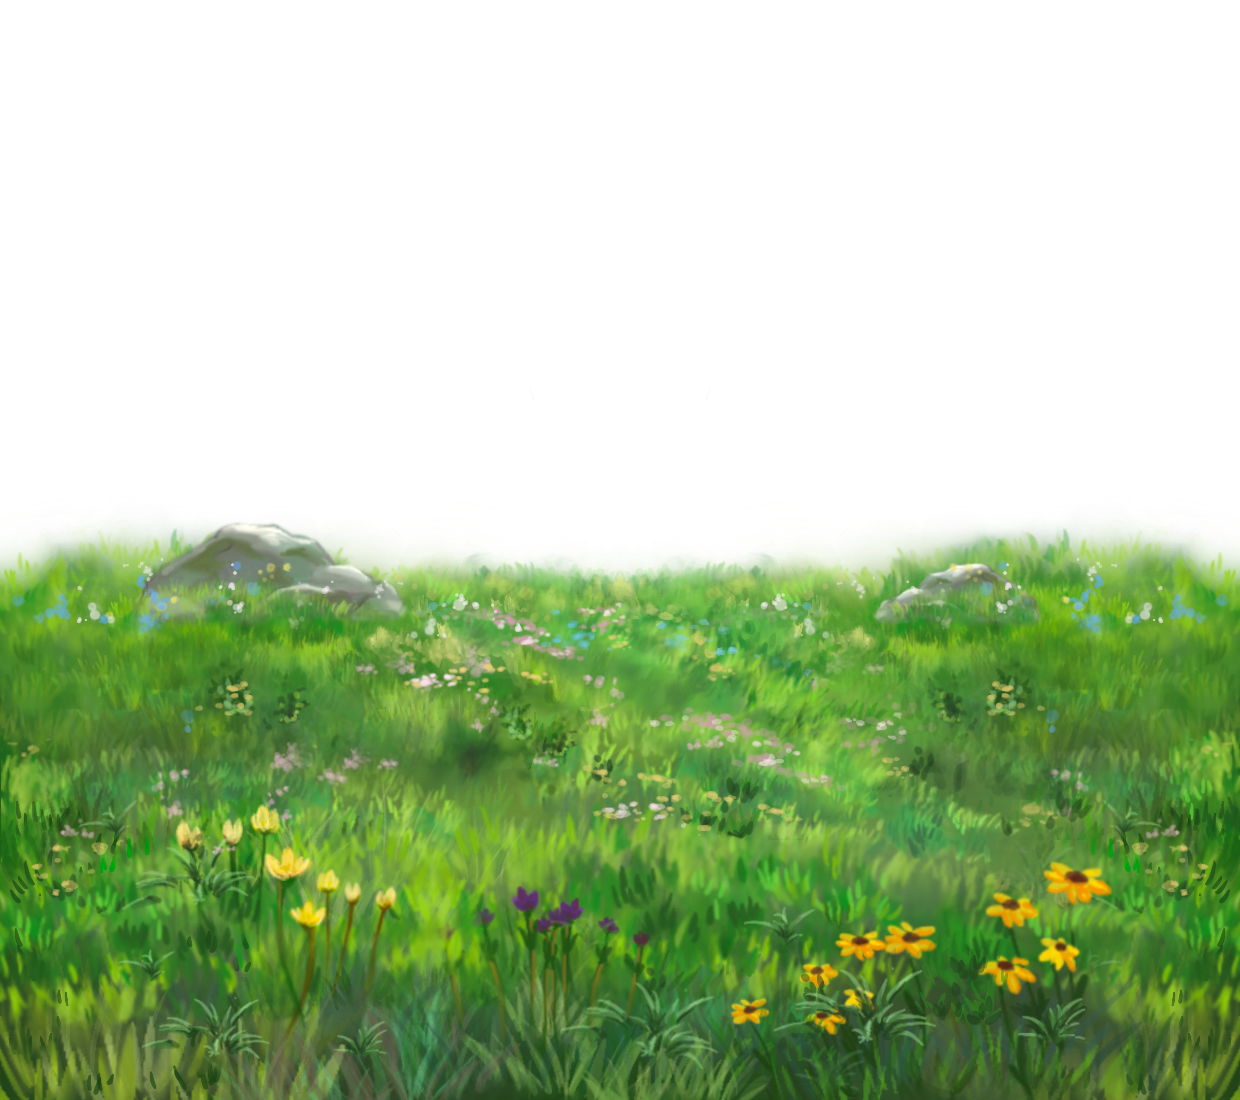
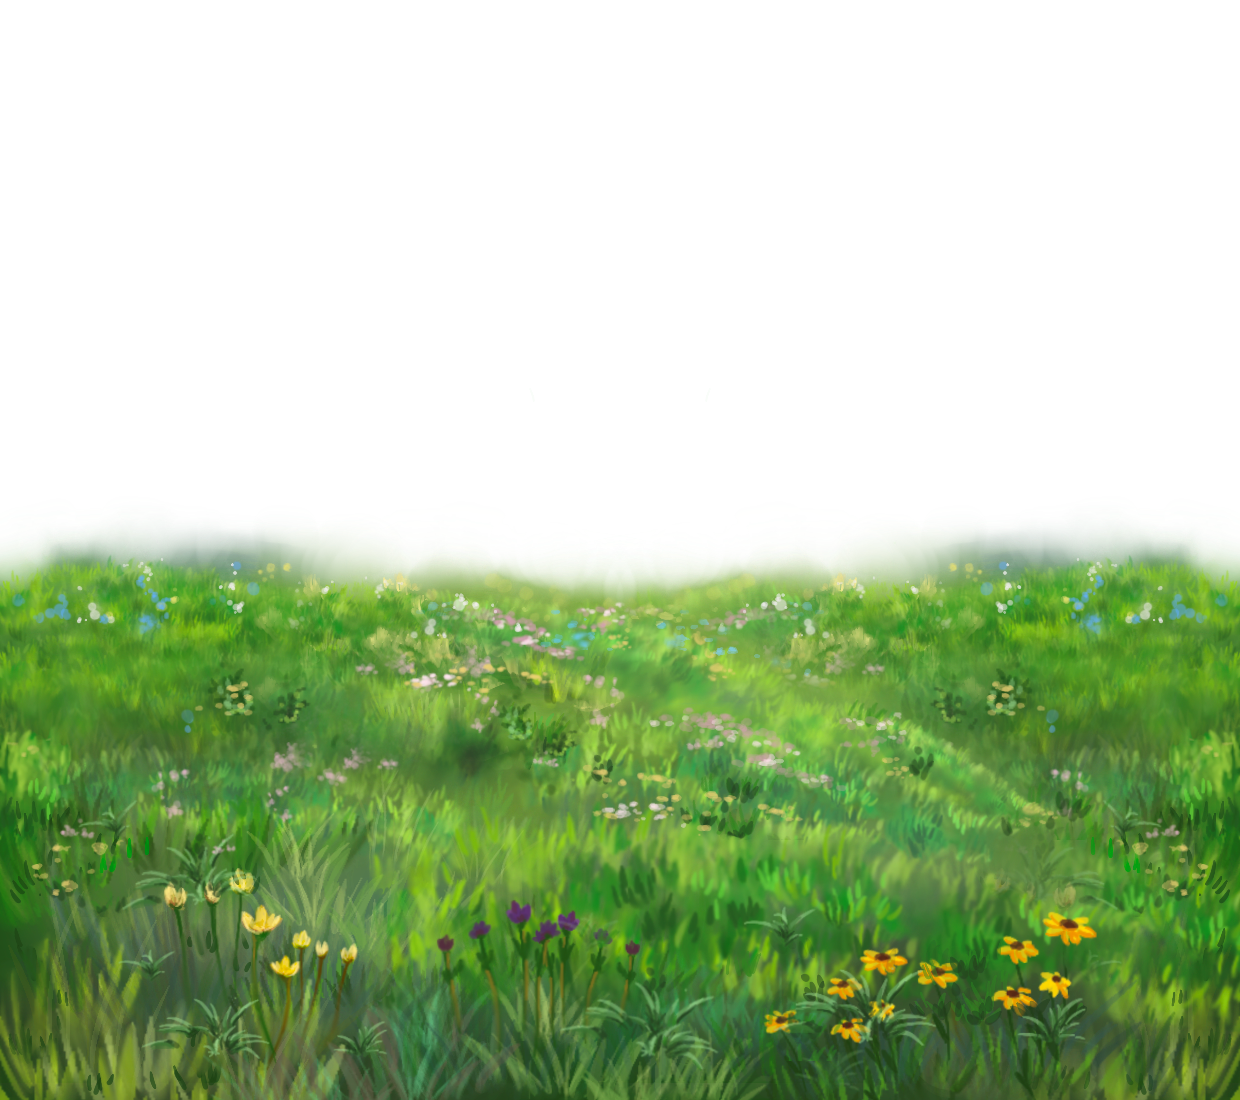
new grass bg and fg images

diff --git a/Scene1.js b/Scene1.js
@@ -25,7 +25,7 @@ class Scene1 extends Phaser.Scene {
         loadPotionAssets(this);
         loadAttackAssets(this);
 
-        this.load.image('grassTile', 'https://raw.githubusercontent.com/sukichn/sukichn.github.io/refs/heads/main/Resources/css/Images/grass-tile.png');
+        this.load.image('grassTile', 'https://raw.githubusercontent.com/sukichn/sukichn.github.io/refs/heads/main/Resources/css/Images/grass.png');
         this.load.image('grassPlatform', 'https://raw.githubusercontent.com/sukichn/sukichn.github.io/refs/heads/main/Resources/css/Images/transparent-platform.png');
     }
 
@@ -83,17 +83,17 @@ class Scene1 extends Phaser.Scene {
         // Create grass foreground
         gameState.grassTile = this.physics.add.staticGroup();
         const grassTilePositions = [
-            /*{ x: -1370, y: 920 },
-            { x: -140, y: 920 },
-            { x: 1100, y: 920 },*/
+            { x: 0, y: 750 },
+            { x: -140, y: 750 },
+            { x: 1100, y: 750 },
         ];
         grassTilePositions.forEach(grass => {
-            gameState.grassTile.create(grass.x, grass.y, 'grassTile');
+            gameState.grassTile.create(grass.x, grass.y, 'grassTile').setDepth(16);
         });
         
 
         // Ensure sunflower is placed correctly
-        gameState.sunflower.setPosition(-700, 0);
+        gameState.sunflower.setPosition(-550, -150);
 
         // Create platform assets
         gameState.platforms = this.physics.add.staticGroup();
@@ -112,7 +112,9 @@ class Scene1 extends Phaser.Scene {
         // Create grass platform
         gameState.grassPlatform = this.physics.add.staticGroup();
         const grassPositions = [
-            { x: 200, y: 600 },  // Platform 1 starting
+            { x: 200, y: 790 },  // Platform 1 starting
+            { x: 800, y: 790 },
+            { x: 1400, y: 790 },  
             
         ];
         grassPositions.forEach(plat => {
@@ -121,7 +123,7 @@ class Scene1 extends Phaser.Scene {
         console.log('Grass Platforms created.');
 
         // Create player assets
-        gameState.player = this.physics.add.sprite(40, 500, 'codey').setScale(.7);
+        gameState.player = this.physics.add.sprite(40, 500, 'codey').setScale(.7).setDepth(14);
         gameState.player.setCollideWorldBounds(true);  // Enable collision with world bounds
         this.physics.add.collider(gameState.player, gameState.platforms);
         console.log('Player created.');
@@ -432,9 +434,9 @@ class Scene1 extends Phaser.Scene {
 // Define the setupCamera function outside the class
 function setupCameraForScene1(scene, gameState) {
     // Set the camera to follow the player on the x-axis only
-    scene.cameras.main.startFollow(gameState.player, true, 0.2, 0.2);
+    scene.cameras.main.startFollow(gameState.player, true, 1, 0);
 
     // Optionally, you can adjust the follow offset if needed
-    scene.cameras.main.setFollowOffset(0, 50);
+    scene.cameras.main.setFollowOffset(0, 300);
 
 }

diff --git a/backgroundAssets.js b/backgroundAssets.js
@@ -16,10 +16,11 @@ const gameAlert = document.getElementById('game-alert');
             .setOrigin(0, 0)
             .setScrollFactor(0)
             .setScale(1);
-        gameState.background = scene.add.tileSprite(0, -20, scene.cameras.main.width, scene.cameras.main.height, 'bg')
+        gameState.background = scene.add.tileSprite(0, 20, scene.cameras.main.width, scene.cameras.main.height, 'bg')
             .setOrigin(0, 0)
             .setScrollFactor(0)
             .setScale(1);
+            
 
         // Define the sunflower animation
         scene.anims.create({
@@ -38,7 +39,7 @@ const gameAlert = document.getElementById('game-alert');
         gameState.sunflower = scene.add.sprite(-500, 350, 'sunflower1') // Adjust the x and y coordinates as needed
             .setOrigin(0, 0)
             .setScale(1)
-            .setDepth(10); // Set depth to a high value to appear in front of other elements
+            .setDepth(18); // Set depth to a high value to appear in front of other elements
 
         gameState.sunflower.play('sunflowerAnimation');
     };

diff --git a/playerMovement.js b/playerMovement.js
@@ -130,12 +130,12 @@
         let isMoving = false;
 
         if (gameState.cursors.left.isDown || gameState.joystick.direction === 'left' || gameState.joystick.direction === 'upLeft' || gameState.joystick.direction === 'downLeft') {
-            gameState.player.setVelocityX(-360);
+            gameState.player.setVelocityX(-260);
             gameState.player.anims.play('run', true);
             gameState.player.flipX = true;
             isMoving = true;
         } else if (gameState.cursors.right.isDown || gameState.joystick.direction === 'right' || gameState.joystick.direction === 'upRight' || gameState.joystick.direction === 'downRight') {
-            gameState.player.setVelocityX(360);
+            gameState.player.setVelocityX(260);
             gameState.player.anims.play('run', true);
             gameState.player.flipX = false;
             isMoving = true;
